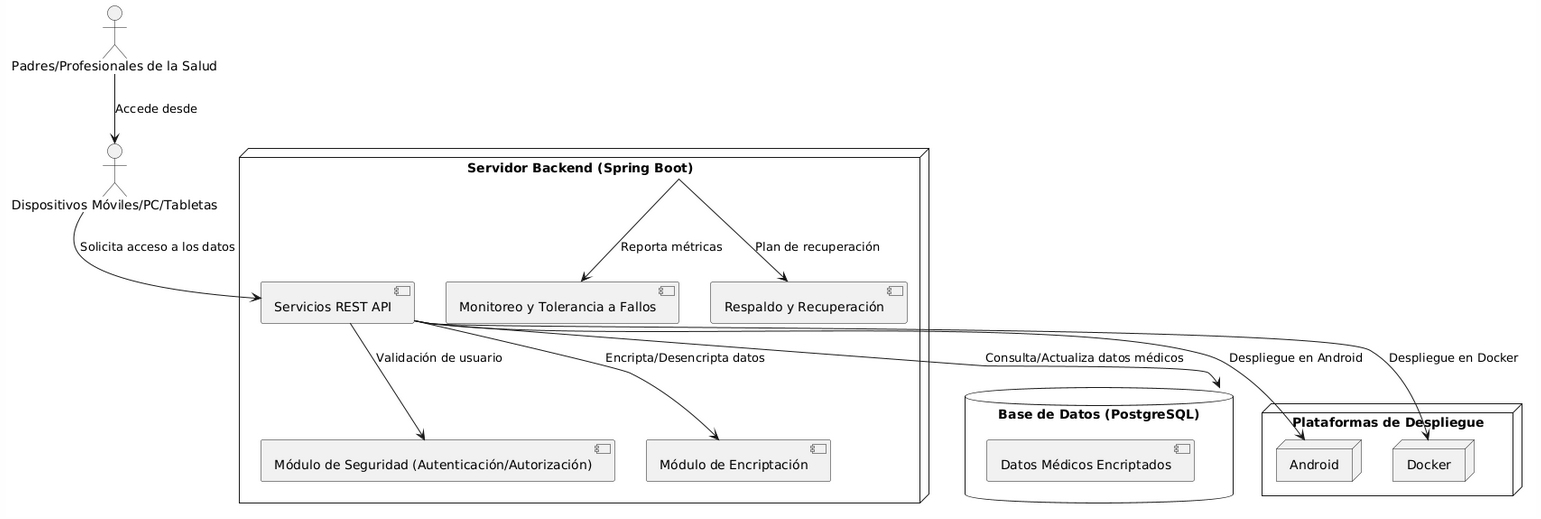
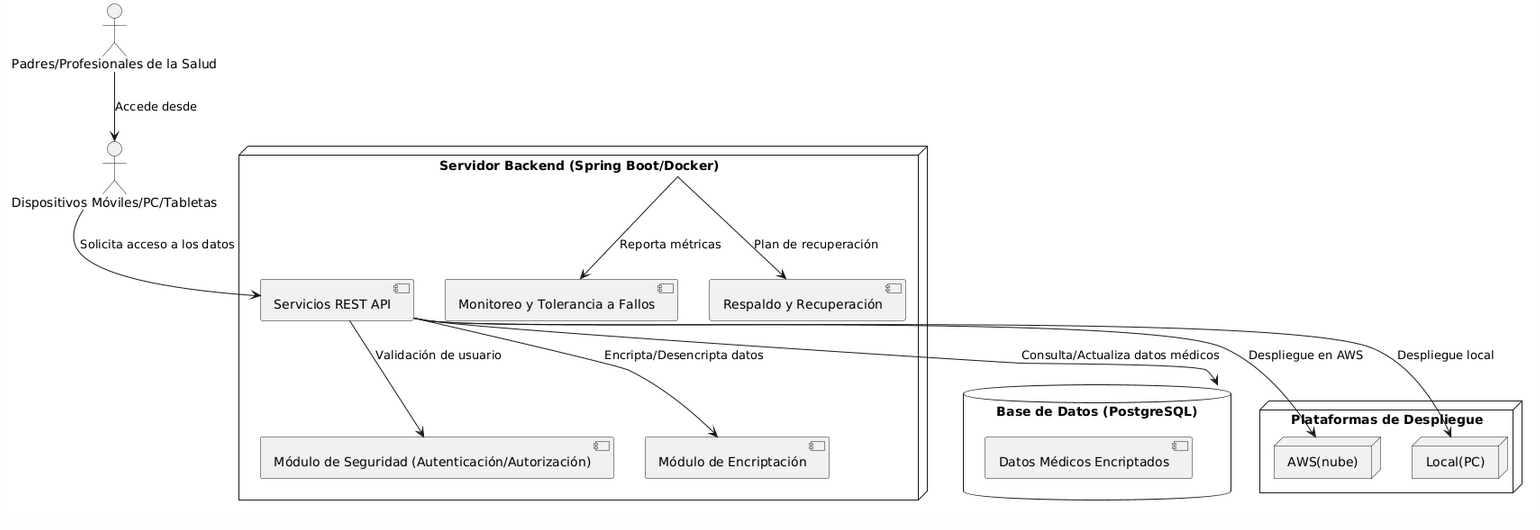
ultima

diff --git a/README.md b/README.md
@@ -132,9 +132,9 @@ Para el proyecto, se considero los siguientes requerimientos no funcionales:
 
 -  El sistema debe contar con mecanismos de tolerancia a fallos para minimizar el impacto en caso de errores o caídas del sistema, además debe tener herramientas de monitoreo para detectar y corregir problemas antes de que afecten a los usuarios.
 
-- La aplicación se está desarrollando principalmente en un entorno Java con Spring Boot en el backend y PostgreSQL como motor de base de datos
+- La aplicación se está desarrollando principalmente en un entorno Java con Spring Boot en el backend (Docker) y PostgreSQL como motor de base de datos
 
-- La aplicación se desplegará en Android o Docker.
+- La aplicación se desplegará en nube(AWS) o de manera local.
 - La aplicación debe ser accesible desde diferentes dispositivos (móviles, tabletas, y computadoras) y navegadores. Debe tener soporte para múltiples idiomas para adaptarse a diferentes regiones geográficas.
 
 - El sistema debe estar disponible al menos el 99.9% del tiempo, garantizando un acceso constante para los usuarios, tanto padres como profesionales de la salud. Además, debe contar con implementación de planes de respaldo automático y estrategias de recuperación ante desastres para proteger la integridad de los datos.
